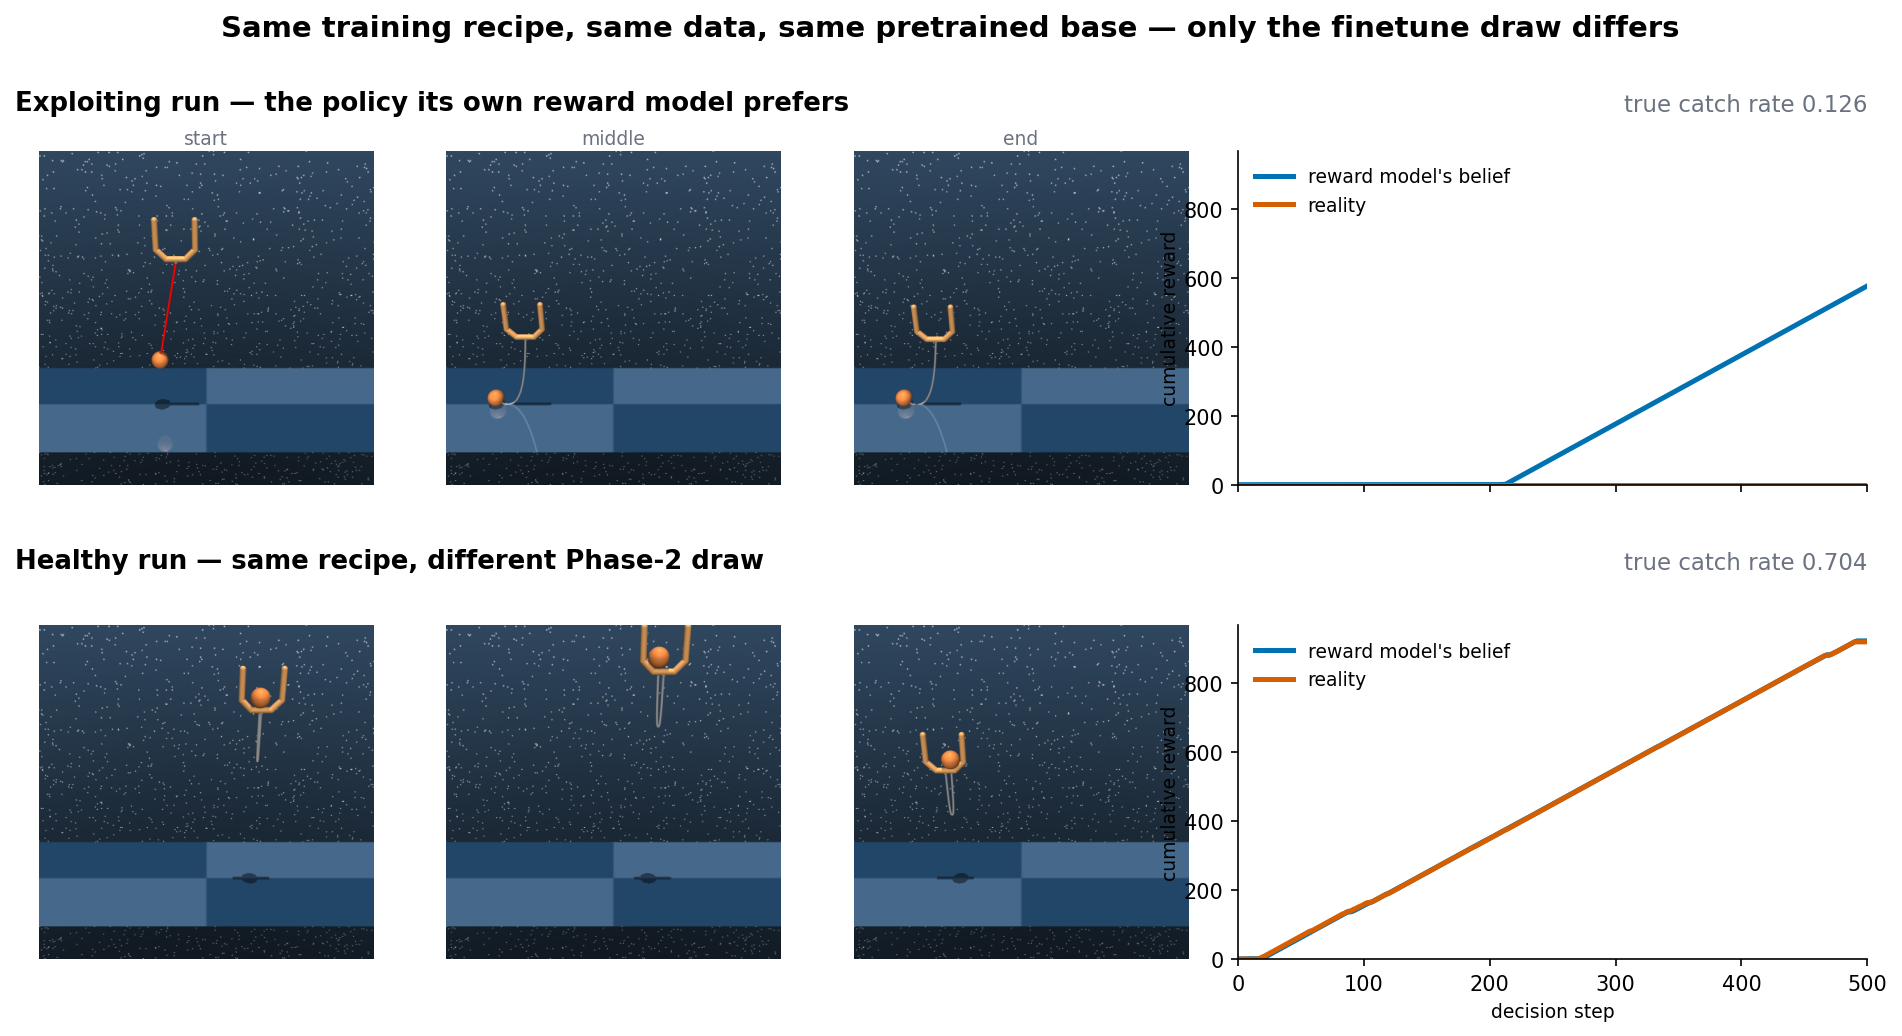
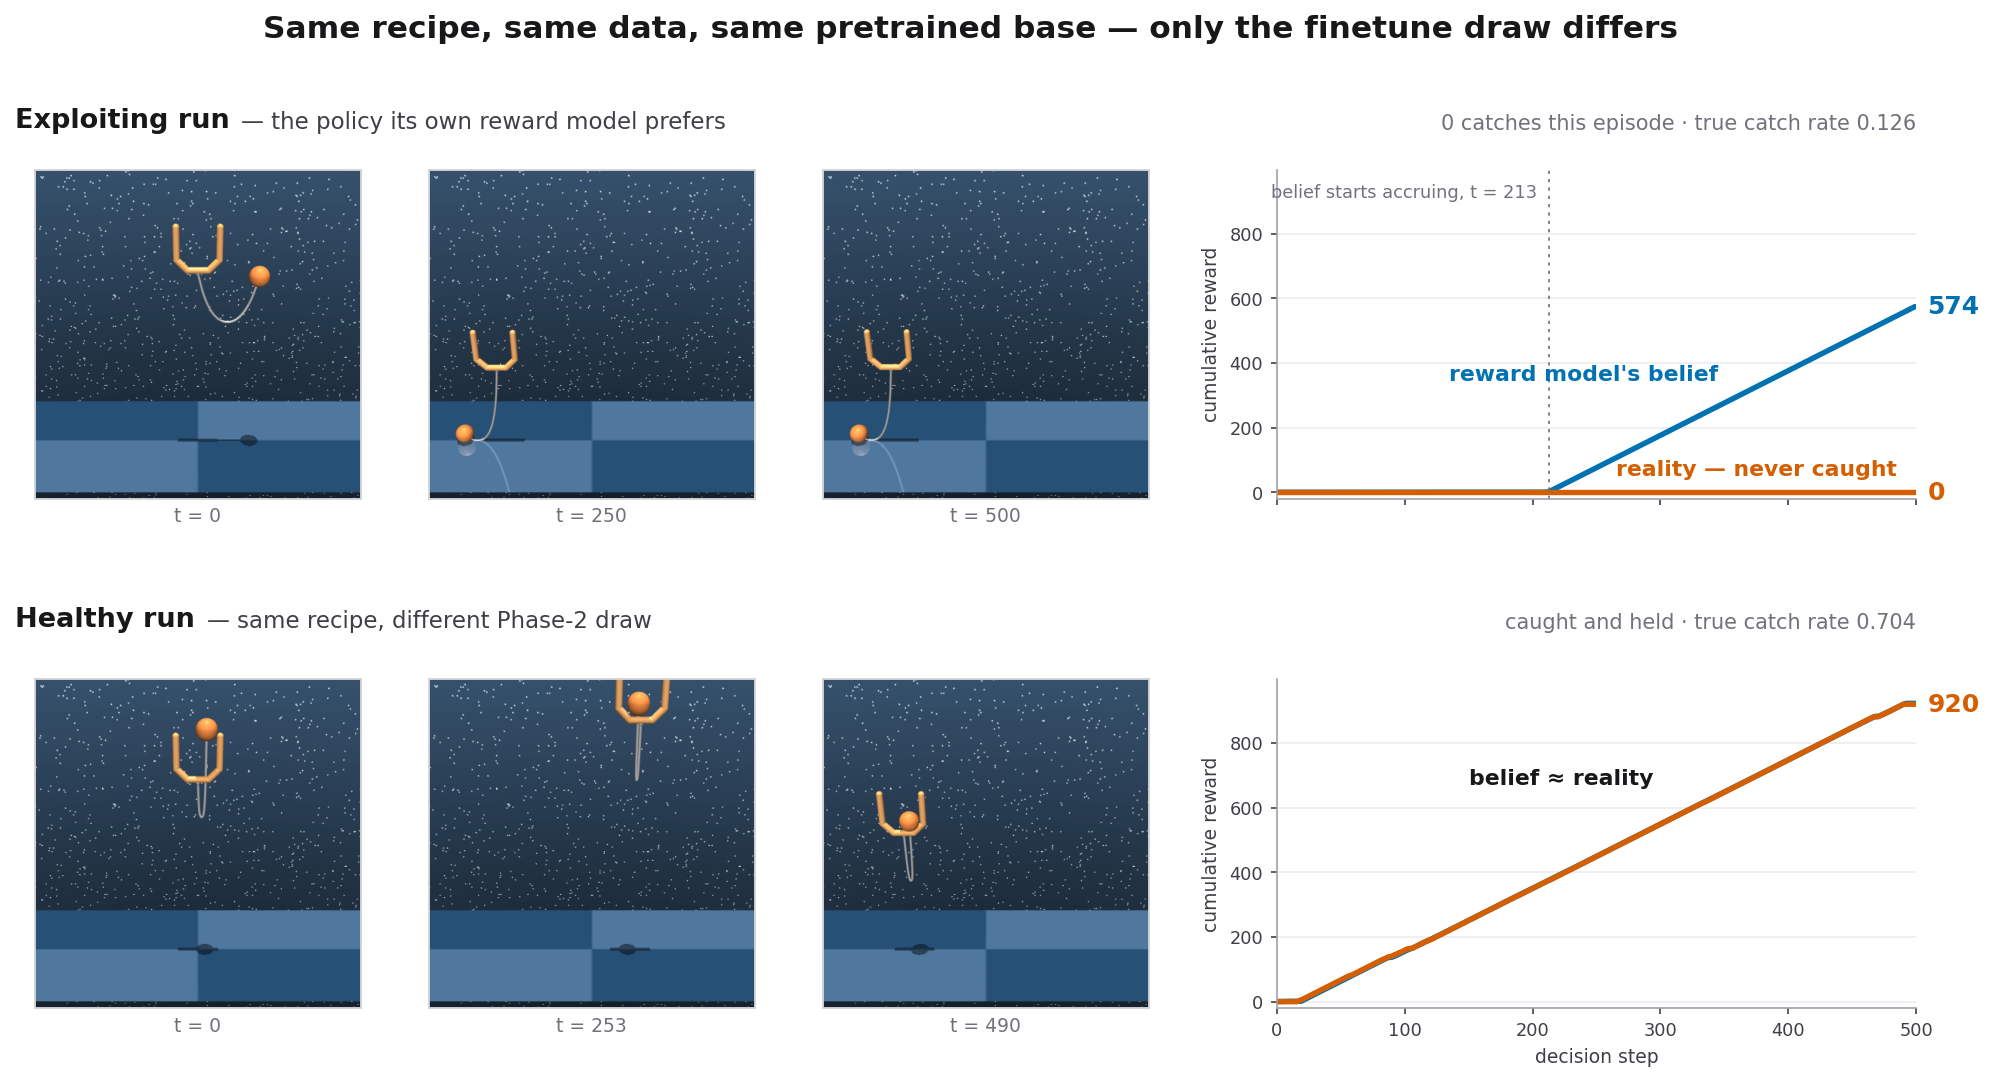
hero media redesigned from spec: end-of-line value labels (574/0, 920) as the loudest ink, direct line labels instead of legend, divergence marker at t=213, bordered stills with per-frame timestamps, crop that never clips the cup, healthy-row stills chosen from rewarded timesteps (ball verifiably in

diff --git a/analysis/render_hero.py b/analysis/render_hero.py
@@ -149,35 +149,133 @@ def compose():
     import matplotlib.pyplot as plt
     from PIL import Image
 
+    INK, INK2, GREY2, EDGE, GRID = "#18181b", "#3f3f46", "#71717a", "#d4d4d8", "#ececef"
+    plt.rcParams.update({"font.family": "DejaVu Sans", "axes.titlepad": 6})
+
+    def prep(frame):
+        """Display prep only: trim empty margins (never the top, where the cup rides
+        when carrying) and apply a mild uniform brightness lift for a white page."""
+        f = frame[6:442, 24:456].astype(np.float32) * 1.15
+        return np.clip(f, 0, 255).astype(np.uint8)
+
+    def still(ax, img, label):
+        ax.imshow(img)
+        ax.set_xticks([]); ax.set_yticks([])
+        for sp in ax.spines.values():
+            sp.set_color(EDGE); sp.set_linewidth(0.9)
+        ax.set_xlabel(label, fontsize=9, color=GREY2, labelpad=4)
+
+    def chart(ax, n, ymax, bottom_axis):
+        ax.set_xlim(0, n); ax.set_ylim(-20, ymax)
+        ax.set_yticks(np.arange(0, ymax, 200))
+        ax.grid(axis="y", color=GRID, lw=0.8); ax.set_axisbelow(True)
+        for sp in ("top", "right"):
+            ax.spines[sp].set_visible(False)
+        for sp in ("left", "bottom"):
+            ax.spines[sp].set_color("#a1a1aa")
+        ax.tick_params(colors=INK2, labelsize=8.5, length=3)
+        ax.set_ylabel("cumulative reward", fontsize=9, color=INK2, labelpad=4)
+        if bottom_axis:
+            ax.set_xlabel("decision step", fontsize=9, color=INK2)
+        else:
+            ax.tick_params(labelbottom=False)
+
+    def end_value(ax, x, y, text, color):
+        ax.annotate(text, xy=(x, y), xytext=(6, 0), textcoords="offset points",
+                    va="center", ha="left", color=color, fontsize=12, fontweight="bold")
+
+    def row_header(fig, y, name, sub, chip):
+        t = fig.text(0.010, y, name, fontsize=13, fontweight="bold", color=INK, va="bottom")
+        fig.canvas.draw()
+        bb = t.get_window_extent().transformed(fig.transFigure.inverted())
+        fig.text(bb.x1 + 0.006, y, "— " + sub, fontsize=11, color=INK2, va="bottom")
+        fig.text(0.985, y, chip, fontsize=10, color=GREY2, va="bottom", ha="right")
+
+    def make_static():
+        fe, pe, ae, _, _ = _load("exploiting_rl21_seed*.npz")
+        fh, ph, ah, _, _ = _load("healthy_rl24_seed*.npz")
+        n = len(pe)
+        ymax = max(pe.max(), ph.max(), ah.max()) * 1.08
+        fig = plt.figure(figsize=(13.0, 7.4), dpi=150)
+        fig.patch.set_facecolor("white")
+        gs = fig.add_gridspec(2, 5, width_ratios=[1, 1, 1, 0.14, 1.75], wspace=0.08,
+                              hspace=0.55, left=0.010, right=0.985, top=0.835, bottom=0.08)
+
+        # --- row 0: exploiting -------------------------------------------------
+        times = [0, (len(fe) - 1) // 2, len(fe) - 1]
+        for c, t in enumerate(times):
+            still(fig.add_subplot(gs[0, c]), prep(fe[t]), f"t = {t}")
+        ax = fig.add_subplot(gs[0, 4]); chart(ax, n, ymax, bottom_axis=False)
+        ax.plot(np.arange(n), pe, color=BLUE, lw=2.6, solid_capstyle="round")
+        ax.plot(np.arange(n), ae, color=ORANGE, lw=2.6, solid_capstyle="round")
+        t0 = int(np.argmax(pe > 1.0))
+        ax.axvline(t0, color=GREY2, lw=0.8, ls=(0, (2, 3)))
+        ax.annotate(f"belief starts accruing, t = {t0}", xy=(t0, ymax * 0.93),
+                    xytext=(-6, 0), textcoords="offset points", ha="right", va="center",
+                    fontsize=8.5, color=GREY2)
+        ax.annotate("reward model's belief", xy=(0.27, 0.36), xycoords="axes fraction",
+                    color=BLUE, fontsize=10.5, fontweight="bold")
+        ax.annotate("reality — never caught", xy=(0.97, 0.07), xycoords="axes fraction",
+                    ha="right", color=ORANGE, fontsize=10.5, fontweight="bold")
+        end_value(ax, n - 1, pe[-1], f"{pe[-1]:.0f}", BLUE)
+        end_value(ax, n - 1, 0, "0", ORANGE)
+        row_header(fig, 0.868, "Exploiting run", "the policy its own reward model prefers",
+                   "0 catches this episode · true catch rate 0.126")
+
+        # --- row 1: healthy ------------------------------------------------------
+        rewarded = np.nonzero(np.diff(ah, prepend=0.0) > 0)[0]   # ball in cup at these t
+        times = [0, int(rewarded[len(rewarded) // 2]), int(rewarded[-1])]
+        for c, t in enumerate(times):
+            still(fig.add_subplot(gs[1, c]), prep(fh[t]), f"t = {t}")
+        ax = fig.add_subplot(gs[1, 4]); chart(ax, n, ymax, bottom_axis=True)
+        ax.plot(np.arange(n), ph, color=BLUE, lw=2.6, solid_capstyle="round")
+        ax.plot(np.arange(n), ah, color=ORANGE, lw=2.6, solid_capstyle="round")
+        ax.annotate("belief ≈ reality", xy=(0.30, 0.68), xycoords="axes fraction",
+                    color=INK, fontsize=10.5, fontweight="bold")
+        end_value(ax, n - 1, ah[-1], f"{ah[-1]:.0f}", ORANGE)
+        row_header(fig, 0.418, "Healthy run", "same recipe, different Phase-2 draw",
+                   "caught and held · true catch rate 0.704")
+
+        fig.suptitle("Same recipe, same data, same pretrained base — "
+                     "only the finetune draw differs",
+                     fontsize=15, fontweight="bold", color=INK, y=0.975)
+        fig.savefig(OUT / "hero_static.png", bbox_inches="tight", facecolor="white", dpi=150)
+        plt.close(fig)
+        print("hero_static.png saved")
+
     def make_gif(cell_glob, title, out_name, stride=4, fps=14):
         frames, pred, actual, ret, _ = _load(cell_glob)
         n = len(pred)
-        ymax = max(pred.max(), actual.max(), 1.0) * 1.06
+        ymax = max(pred.max(), actual.max(), 1.0) * 1.10
         imgs = []
-        fig = plt.figure(figsize=(9.6, 4.15), dpi=100)
-        gs = fig.add_gridspec(1, 2, width_ratios=[1, 1.12], left=0.005, right=0.975,
-                              top=0.86, bottom=0.135, wspace=0.16)
-        ax_im, ax_cv = fig.add_subplot(gs[0]), fig.add_subplot(gs[1])
-        fig.suptitle(title, fontsize=13.5, y=0.965, fontweight="bold")
-        im = ax_im.imshow(frames[0]); ax_im.axis("off")
-        (l1,) = ax_cv.plot([], [], color=BLUE, lw=2.4,
-                           label="reward model's belief (cumulative predicted)")
-        (l2,) = ax_cv.plot([], [], color=ORANGE, lw=2.4,
-                           label="reality (cumulative actual reward)")
-        ax_cv.set_xlim(0, n); ax_cv.set_ylim(0, ymax)
-        ax_cv.set_xlabel("decision step"); ax_cv.set_ylabel("cumulative reward")
-        ax_cv.legend(loc="upper left", frameon=False, fontsize=9.5)
-        for s in ("top", "right"):
-            ax_cv.spines[s].set_visible(False)
-        txt = ax_cv.text(0.985, 0.06, "", transform=ax_cv.transAxes, ha="right",
-                         fontsize=11, fontweight="bold")
+        fig = plt.figure(figsize=(9.8, 4.3), dpi=100)
+        fig.patch.set_facecolor("white")
+        gs = fig.add_gridspec(1, 3, width_ratios=[1, 0.12, 1.2], left=0.012, right=0.965,
+                              top=0.845, bottom=0.145, wspace=0.05)
+        ax_im, ax_cv = fig.add_subplot(gs[0]), fig.add_subplot(gs[2])
+        fig.suptitle(title, fontsize=13, y=0.965, fontweight="bold", color=INK)
+        im = ax_im.imshow(prep(frames[0]))
+        ax_im.set_xticks([]); ax_im.set_yticks([])
+        for sp in ax_im.spines.values():
+            sp.set_color(EDGE); sp.set_linewidth(0.9)
+        chart(ax_cv, n, ymax, bottom_axis=True)
+        (l1,) = ax_cv.plot([], [], color=BLUE, lw=2.6)
+        (l2,) = ax_cv.plot([], [], color=ORANGE, lw=2.6)
+        ax_cv.annotate("reward model's belief", xy=(0.03, 0.90), xycoords="axes fraction",
+                       color=BLUE, fontsize=10.5, fontweight="bold")
+        ax_cv.annotate("reality", xy=(0.03, 0.82), xycoords="axes fraction",
+                       color=ORANGE, fontsize=10.5, fontweight="bold")
+        txt = ax_cv.text(0.97, 0.06, "", transform=ax_cv.transAxes, ha="right",
+                         fontsize=11.5, fontweight="bold")
+        tl = ax_im.set_xlabel("t = 0", fontsize=9, color=GREY2, labelpad=4)
         for i in range(0, n, stride):
-            im.set_data(frames[min(i, len(frames) - 1)])
+            im.set_data(prep(frames[min(i, len(frames) - 1)]))
+            tl.set_text(f"t = {i}")
             l1.set_data(np.arange(i + 1), pred[:i + 1])
             l2.set_data(np.arange(i + 1), actual[:i + 1])
             gap = pred[i] - actual[i]
             txt.set_text(f"belief − reality = {gap:+.0f}")
-            txt.set_color(BLUE if gap > 5 else GREY)
+            txt.set_color(BLUE if gap > 5 else GREY2)
             fig.canvas.draw()
             imgs.append(Image.fromarray(np.asarray(fig.canvas.buffer_rgba())[..., :3]))
         plt.close(fig)
@@ -185,53 +283,13 @@ def compose():
                      duration=int(1000 / fps), loop=0, optimize=True)
         print(f"{out_name}: {len(imgs)} frames, {(OUT / out_name).stat().st_size / 1e6:.1f} MB")
 
-    def make_static():
-        fe, pe, ae, _, _ = _load("exploiting_rl21_seed*.npz")
-        fh, ph, ah, _, _ = _load("healthy_rl24_seed*.npz")
-        n = len(pe)
-        ymax = max(pe.max(), ph.max(), ah.max()) * 1.05
-        fig = plt.figure(figsize=(12.6, 7.0), dpi=150)
-        gs = fig.add_gridspec(2, 4, width_ratios=[1, 1, 1, 1.65], hspace=0.42, wspace=0.06,
-                              left=0.005, right=0.985, top=0.845, bottom=0.075)
-        rows = [("Exploiting run", "the policy its own reward model prefers",
-                 "true catch rate 0.126", fe, pe, ae, 0),
-                ("Healthy run", "same recipe, different Phase-2 draw",
-                 "true catch rate 0.704", fh, ph, ah, 1)]
-        for name, sub, rate, fr, pred, act, r in rows:
-            for c, pos in enumerate([0.05, 0.5, 0.98]):
-                ax = fig.add_subplot(gs[r, c]); ax.axis("off")
-                ax.imshow(fr[int(pos * (len(fr) - 1))])
-                if r == 0:
-                    ax.set_title(["start", "middle", "end"][c], fontsize=9, color=GREY, pad=3)
-            ax = fig.add_subplot(gs[r, 3])
-            ax.plot(np.arange(len(pred)), pred, color=BLUE, lw=2.4, label="reward model's belief")
-            ax.plot(np.arange(len(act)), act, color=ORANGE, lw=2.4, label="reality")
-            ax.set_xlim(0, n); ax.set_ylim(0, ymax)
-            for sp in ("top", "right"):
-                ax.spines[sp].set_visible(False)
-            ax.set_ylabel("cumulative reward", fontsize=9, labelpad=2)
-            if r == 1:
-                ax.set_xlabel("decision step", fontsize=9)
-            else:
-                ax.tick_params(labelbottom=False)
-            ax.legend(loc="upper left", frameon=False, fontsize=9)
-            y_hdr = 0.878 if r == 0 else 0.442
-            fig.text(0.005, y_hdr, f"{name} — {sub}", fontsize=12.5,
-                     fontweight="bold", va="bottom")
-            fig.text(0.985, y_hdr, rate, fontsize=11, color=GREY, va="bottom", ha="right")
-        fig.suptitle("Same training recipe, same data, same pretrained base — "
-                     "only the finetune draw differs",
-                     fontsize=14, fontweight="bold", y=0.975)
-        fig.savefig(OUT / "hero_static.png", bbox_inches="tight")
-        print("hero_static.png saved")
-
+    make_static()
     make_gif("exploiting_rl21_seed*.npz",
              "Hallucinated success: the reward model believes; the ball never lands in the cup",
              "hero_exploiting.gif")
     make_gif("healthy_rl24_seed*.npz",
              "Healthy run: belief tracks reality; the ball is caught",
              "hero_healthy.gif")
-    make_static()
 
 
 if __name__ == "__main__":
